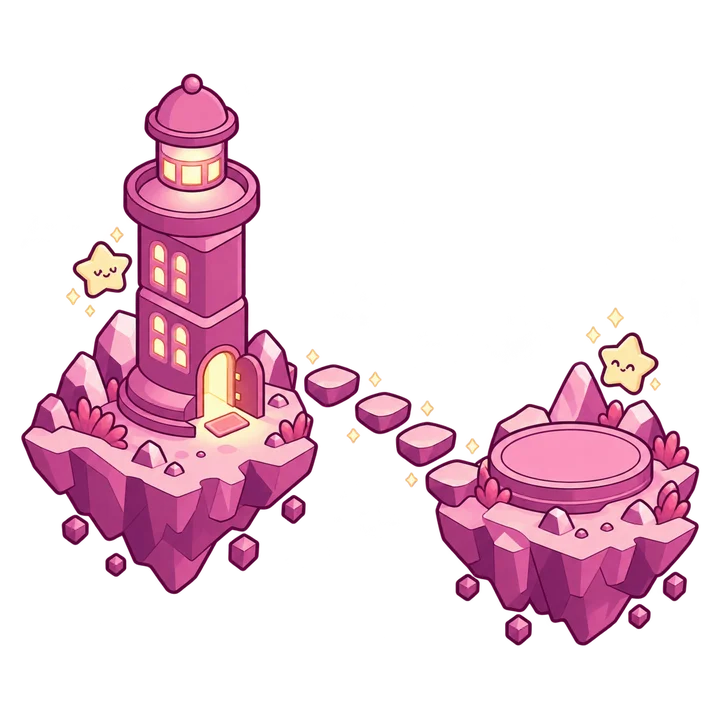
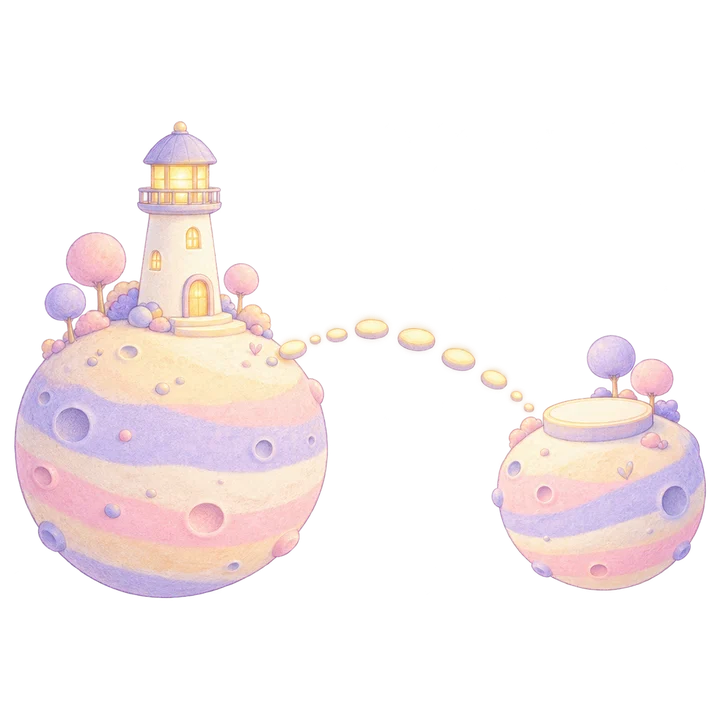
feat(art): stage the worlds like creds.id — library-style art on a brand sky with stars and drifting planets

diff --git a/apps/expo/src/components/decor/WorldArt.tsx b/apps/expo/src/components/decor/WorldArt.tsx
@@ -1,22 +1,33 @@
 /**
- * WorldArt — the creds.id world illustrations (onboarding and empty states):
- * the page lighthouse on its floating island, drawn with gpt-image-2.5 from the
- * web hero as the style reference, on a transparent ground so they sit on any
- * surface in light or dark. Each one fades in, then floats idly like the web's
- * drawn worlds; under Reduce Motion it simply appears and stays still.
+ * WorldArt — a little creds.id world on its own patch of sky, the way the web
+ * stages its drawn worlds (airmeishi-web LandWorld on `/app`): the brand sky as
+ * a soft radial glow that fades into the page, a scatter of four-point sparkles
+ * and dots in the four star tones that breathe out of step, and — on the larger
+ * stages — two of the web's own small planets drifting off the rim.
+ *
+ * The centre piece is one of five illustrations drawn with gpt-image-2.5 in the
+ * web illustration library's style (pastel striped planets, the cream
+ * lighthouse), on a transparent ground. Every layer fades up on arrival, then
+ * floats and leans a little on its own period (motion.ts `IDLE`). Transform and
+ * opacity only; under Reduce Motion everything simply appears and stays still.
+ * Decoration only — hidden from assistive tech, never in a touch's way.
  */
 import { Image } from 'expo-image';
 import { useEffect, type ReactNode } from 'react';
+import { View } from 'react-native';
 import Animated, {
   Easing,
   useAnimatedStyle,
   useReducedMotion,
   useSharedValue,
+  withDelay,
   withRepeat,
   withTiming,
 } from 'react-native-reanimated';
+import Svg, { Circle, Defs, Path, RadialGradient, Stop } from 'react-native-svg';
 
-import { IDLE_FLOAT, TIMING } from '@/feedback/motion';
+import { Colors } from '@/constants/Colors';
+import { EASE_OUT, IDLE } from '@/feedback/motion';
 
 const ART = {
   welcome: require('../../../assets/art/welcome.webp') as number,
@@ -26,45 +37,216 @@ const ART = {
   verify: require('../../../assets/art/verify.webp') as number,
 } as const;
 
+/** The web's launch-kit planets (O-10 and O-05d), with their aspect ratios. */
+const COMPANIONS = [
+  { src: require('../../../assets/art/planet-small.webp') as number, x: -0.2, y: 0.66, w: 0.2, ratio: 116 / 104, bobMs: 5400, sway: -2 },
+  { src: require('../../../assets/art/planet-flag.webp') as number, x: 1.04, y: 0.04, w: 0.19, ratio: 153 / 116, bobMs: 8600, sway: 1.6 },
+] as const;
+
+type Tone = 0 | 1 | 2 | 3;
+/** x, y (in the art's box, 0–1, may spill past it), radius as a share of the box,
+ * sparkle or dot, tone, and — for the ones that breathe — a phase step. */
+type Star = readonly [x: number, y: number, r: number, kind: 's' | 'd', tone: Tone, twinkle?: number];
+const STARS: readonly Star[] = [
+  [-0.08, 0.16, 0.034, 's', 0, 1],
+  [1.06, 0.36, 0.028, 's', 3, 2],
+  [0.9, 0.92, 0.038, 's', 0, 3],
+  [-0.1, 0.9, 0.022, 's', 2, 4],
+  [0.16, -0.04, 0.011, 'd', 1],
+  [0.74, -0.08, 0.01, 'd', 2, 5],
+  [1.14, 0.7, 0.011, 'd', 3],
+  [-0.2, 0.42, 0.01, 'd', 1, 6],
+  [0.46, 1.06, 0.01, 'd', 2],
+];
+
 export type WorldArtName = keyof typeof ART;
 
 export function WorldArt({
   name,
   size,
+  companions = size >= 180,
 }: {
   readonly name: WorldArtName;
   readonly size: number;
+  /** The two drifting planets; off by default on small stages, where they crowd. */
+  readonly companions?: boolean;
+}): ReactNode {
+  const sky = size * 1.9;
+
+  return (
+    <View
+      pointerEvents="none"
+      accessible={false}
+      accessibilityElementsHidden
+      importantForAccessibility="no-hide-descendants"
+      style={{ width: size, height: size }}
+    >
+      <Arrive index={0} style={{ position: 'absolute', left: (size - sky) / 2, top: (size - sky) / 2 }}>
+        <Sky size={sky} />
+      </Arrive>
+
+      {STARS.map(([x, y, r, kind, tone, twinkle], i) => (
+        <StarMark key={i} size={size} x={x} y={y} r={r} kind={kind} tone={tone} twinkle={twinkle} />
+      ))}
+
+      {companions
+        ? COMPANIONS.map((planet, i) => {
+            const w = size * planet.w;
+            return (
+              <Arrive key={i} index={2 + i} style={{ position: 'absolute', left: size * planet.x - w / 2, top: size * planet.y }}>
+                <Bob periodMs={planet.bobMs} swayDeg={planet.sway} bobPx={IDLE.bobPx - 1}>
+                  <Image source={planet.src} style={{ width: w, height: w * planet.ratio }} contentFit="contain" />
+                </Bob>
+              </Arrive>
+            );
+          })
+        : null}
+
+      <Arrive index={1} style={{ position: 'absolute', left: 0, top: 0 }}>
+        <Bob periodMs={IDLE.bobMs} swayDeg={IDLE.swayDeg} bobPx={IDLE.bobPx}>
+          <Image source={ART[name]} style={{ width: size, height: size }} contentFit="contain" />
+        </Bob>
+      </Arrive>
+    </View>
+  );
+}
+
+/** The brand sky: warm core, lilac band, cream rim, fading out before its edge. */
+function Sky({ size }: { readonly size: number }): ReactNode {
+  return (
+    <Svg width={size} height={size}>
+      <Defs>
+        <RadialGradient id="worldSky" cx="50%" cy="50%" r="50%">
+          <Stop offset="0" stopColor={Colors.worldSkyCore} stopOpacity={0.95} />
+          <Stop offset="0.36" stopColor={Colors.worldSkyMid} stopOpacity={0.62} />
+          <Stop offset="0.66" stopColor={Colors.worldSkyRim} stopOpacity={0.32} />
+          <Stop offset="1" stopColor={Colors.worldSkyRim} stopOpacity={0} />
+        </RadialGradient>
+      </Defs>
+      <Circle cx={size / 2} cy={size / 2} r={size / 2} fill="url(#worldSky)" />
+    </Svg>
+  );
+}
+
+function starColor(tone: Tone): string {
+  if (tone === 1) return Colors.worldStarPeriwinkle;
+  if (tone === 2) return Colors.worldStarPink;
+  if (tone === 3) return Colors.worldStarButter;
+  return Colors.worldStarWhite;
+}
+
+/** The library's four-point sparkle, radius `r`, centred in a 2r box. */
+function sparklePath(r: number): string {
+  const k = r * 0.16;
+  return `M${r} 0C${r + k} ${r - k} ${r + k} ${r - k} ${2 * r} ${r}C${r + k} ${r + k} ${r + k} ${r + k} ${r} ${2 * r}C${r - k} ${r + k} ${r - k} ${r + k} 0 ${r}C${r - k} ${r - k} ${r - k} ${r - k} ${r} 0Z`;
+}
+
+function StarMark({
+  size,
+  x,
+  y,
+  r,
+  kind,
+  tone,
+  twinkle,
+}: {
+  readonly size: number;
+  readonly x: number;
+  readonly y: number;
+  readonly r: number;
+  readonly kind: 's' | 'd';
+  readonly tone: Tone;
+  readonly twinkle?: number;
+}): ReactNode {
+  const reduceMotion = useReducedMotion();
+  const breath = useSharedValue(1);
+  const radius = Math.max(1.5, size * r);
+
+  useEffect(() => {
+    if (reduceMotion || twinkle === undefined) return;
+    // Out of step, like the web's `animation-delay: calc(var(--tw) * -1.7s)`.
+    breath.value = withDelay(
+      (twinkle * 1700) % IDLE.twinkleMs,
+      withRepeat(withTiming(0.3, { duration: IDLE.twinkleMs, easing: Easing.inOut(Easing.sin) }), -1, true),
+    );
+  }, [breath, reduceMotion, twinkle]);
+
+  const style = useAnimatedStyle(() => ({ opacity: breath.value }));
+  const color = starColor(tone);
+
+  return (
+    <Arrive
+      index={3}
+      style={{ position: 'absolute', left: size * x - radius, top: size * y - radius }}
+    >
+      <Animated.View style={style}>
+        <Svg width={radius * 2} height={radius * 2}>
+          {kind === 's' ? (
+            <Path d={sparklePath(radius)} fill={color} />
+          ) : (
+            <Circle cx={radius} cy={radius} r={radius} fill={color} />
+          )}
+        </Svg>
+      </Animated.View>
+    </Arrive>
+  );
+}
+
+/** The web's `fadeUp`: rise a little and fade in, one layer after another. */
+function Arrive({
+  index,
+  style,
+  children,
+}: {
+  readonly index: number;
+  readonly style: object;
+  readonly children: ReactNode;
 }): ReactNode {
   const reduceMotion = useReducedMotion();
   const shown = useSharedValue(reduceMotion ? 1 : 0);
-  const float = useSharedValue(0);
 
   useEffect(() => {
     if (reduceMotion) return;
-    shown.value = withTiming(1, TIMING.enter);
-    float.value = withRepeat(
-      withTiming(1, { duration: IDLE_FLOAT.durationMs, easing: Easing.inOut(Easing.sin) }),
-      -1,
-      true,
+    shown.value = withDelay(
+      index * IDLE.enterStaggerMs,
+      withTiming(1, { duration: IDLE.enterMs, easing: EASE_OUT }),
     );
-  }, [float, reduceMotion, shown]);
+  }, [index, reduceMotion, shown]);
 
-  const style = useAnimatedStyle(() => ({
+  const animated = useAnimatedStyle(() => ({
     opacity: shown.value,
-    transform: [
-      { translateY: -float.value * IDLE_FLOAT.risePx },
-      { scale: 0.96 + shown.value * 0.04 },
-    ],
+    transform: [{ translateY: (1 - shown.value) * 12 }],
   }));
 
-  return (
-    <Animated.View style={[{ width: size, height: size }, style]}>
-      <Image
-        source={ART[name]}
-        style={{ width: size, height: size }}
-        contentFit="contain"
-        accessible={false}
-      />
-    </Animated.View>
-  );
+  return <Animated.View style={[style, animated]}>{children}</Animated.View>;
+}
+
+/** Float a few px and lean a degree or two, forever, on its own period. */
+function Bob({
+  periodMs,
+  swayDeg,
+  bobPx,
+  children,
+}: {
+  readonly periodMs: number;
+  readonly swayDeg: number;
+  readonly bobPx: number;
+  readonly children: ReactNode;
+}): ReactNode {
+  const reduceMotion = useReducedMotion();
+  const t = useSharedValue(0);
+
+  useEffect(() => {
+    if (reduceMotion) return;
+    t.value = withDelay(
+      IDLE.enterMs,
+      withRepeat(withTiming(1, { duration: periodMs, easing: Easing.inOut(Easing.sin) }), -1, true),
+    );
+  }, [periodMs, reduceMotion, t]);
+
+  const style = useAnimatedStyle(() => ({
+    transform: [{ translateY: -t.value * bobPx }, { rotate: `${t.value * swayDeg}deg` }],
+  }));
+
+  return <Animated.View style={style}>{children}</Animated.View>;
 }

diff --git a/apps/expo/src/feedback/motion.ts b/apps/expo/src/feedback/motion.ts
@@ -124,12 +124,20 @@ export function zoomFadeIn(durationMs: number): EntryExitAnimationFunction {
 }
 
 /**
- * Idle life for the world illustrations (the web's drawn worlds float the same
- * way): a slow sine bob, a few px, forever. Ambient, not feedback — so it sits
- * outside the 300 ms UI band, and it never runs under Reduce Motion.
+ * Idle life for the world illustrations — the web's shared rhythm (airmeishi-web
+ * theme.css `idle-bob` / global.css `.land-planet`): each thing floats a few px
+ * and leans a degree or two on its own slow period, and stars breathe out of
+ * step. Ambient, not feedback — so it sits outside the 300 ms UI band, and it
+ * never runs under Reduce Motion.
  */
-export const IDLE_FLOAT = {
-  /** One way; the loop alternates. */
-  durationMs: 2800,
-  risePx: 6,
+export const IDLE = {
+  /** One way of a bob; the loop alternates. Companions take their own period. */
+  bobMs: 7000,
+  bobPx: 5,
+  swayDeg: 0.8,
+  /** One way of a star's breath (web `twinkle`, 4.8 s alternate). */
+  twinkleMs: 4800,
+  /** Entrance: the web's `fadeUp` (900 ms) with a stagger per layer. */
+  enterMs: 900,
+  enterStaggerMs: 120,
 } as const;

diff --git a/apps/expo/src/constants/Colors.ts b/apps/expo/src/constants/Colors.ts
@@ -41,6 +41,20 @@ const RAW = {
   /** The lantern's light — palette butter/200, the lit glass in the tower art. */
   splashLampLight: '#F2E1A6',
 
+  /** The brand sky behind the drawn worlds (creds-design tokens.json `color.sky`,
+   * airmeishi-web theme.css `--color-sky-*`): a warm core, a lilac band, a cream rim. */
+  worldSkyCore: '#FFE0CB',
+  worldSkyCoreDark: '#3C1800',
+  worldSkyMid: '#CDB6E0',
+  worldSkyMidDark: '#351E48',
+  worldSkyRim: '#F9F0DA',
+  worldSkyRimDark: '#1B1404',
+  /** Star tones of the world sky (web `.land-star.tone-0…3`). */
+  worldStarWhite: '#FFFFFF',
+  worldStarPeriwinkle: '#CCD3F4',
+  worldStarPink: '#F4CCE2',
+  worldStarButter: '#F2E1A6',
+
   /** Page background — Palette.cream (#fbf9f2) light / #060417 dark. */
   pageBg: '#FBF9F2',
   pageBgDark: '#060417',

diff --git a/apps/expo/src/components/me/PageEmptyState.tsx b/apps/expo/src/components/me/PageEmptyState.tsx
@@ -46,7 +46,7 @@ export function PageEmptyState({
 }: PageEmptyStateProps): ReactNode {
   return (
     <View
-      className="items-center bg-cardBg"
+      className="items-center"
       style={{
         borderWidth: 1.5,
         borderStyle: 'dashed',
